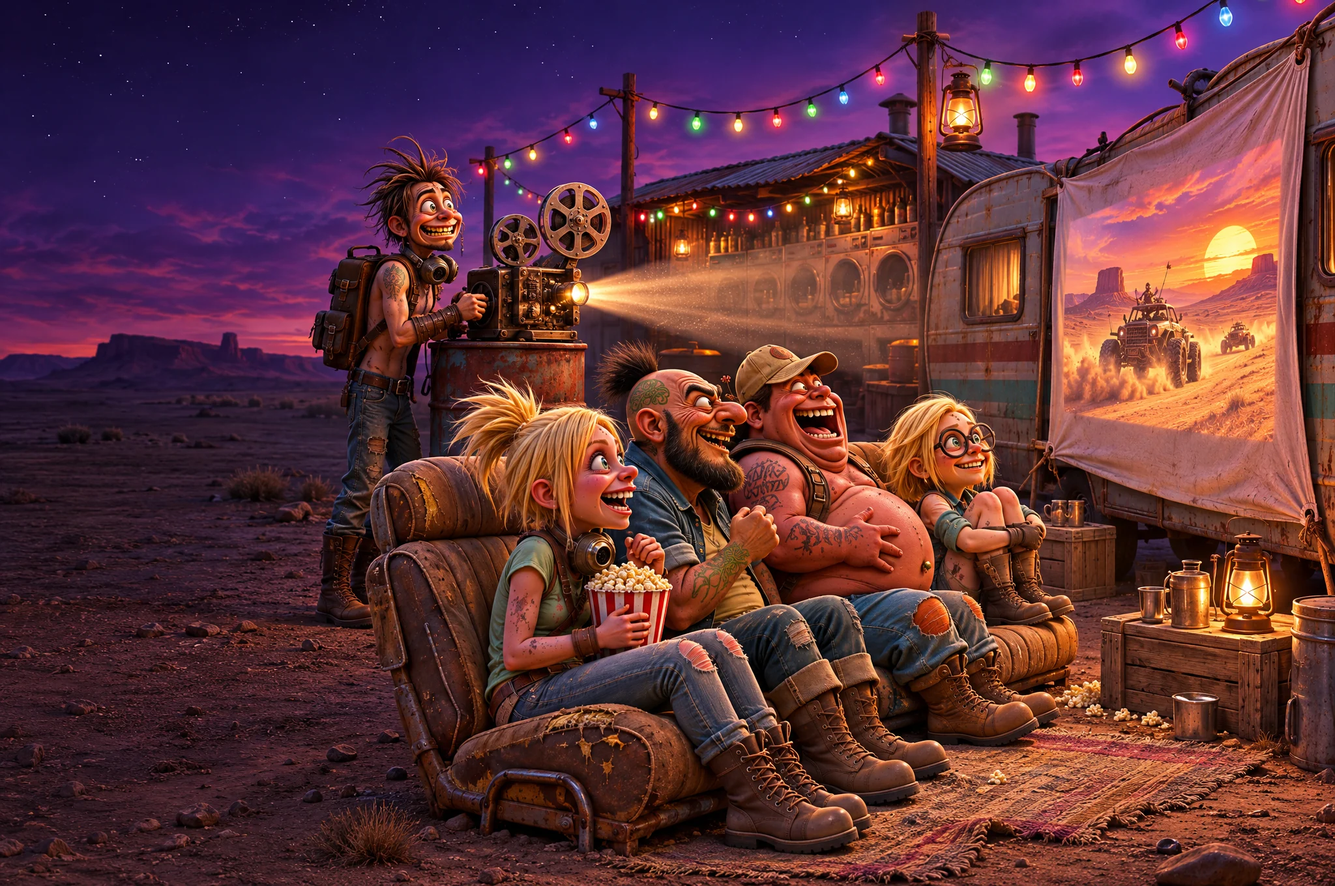
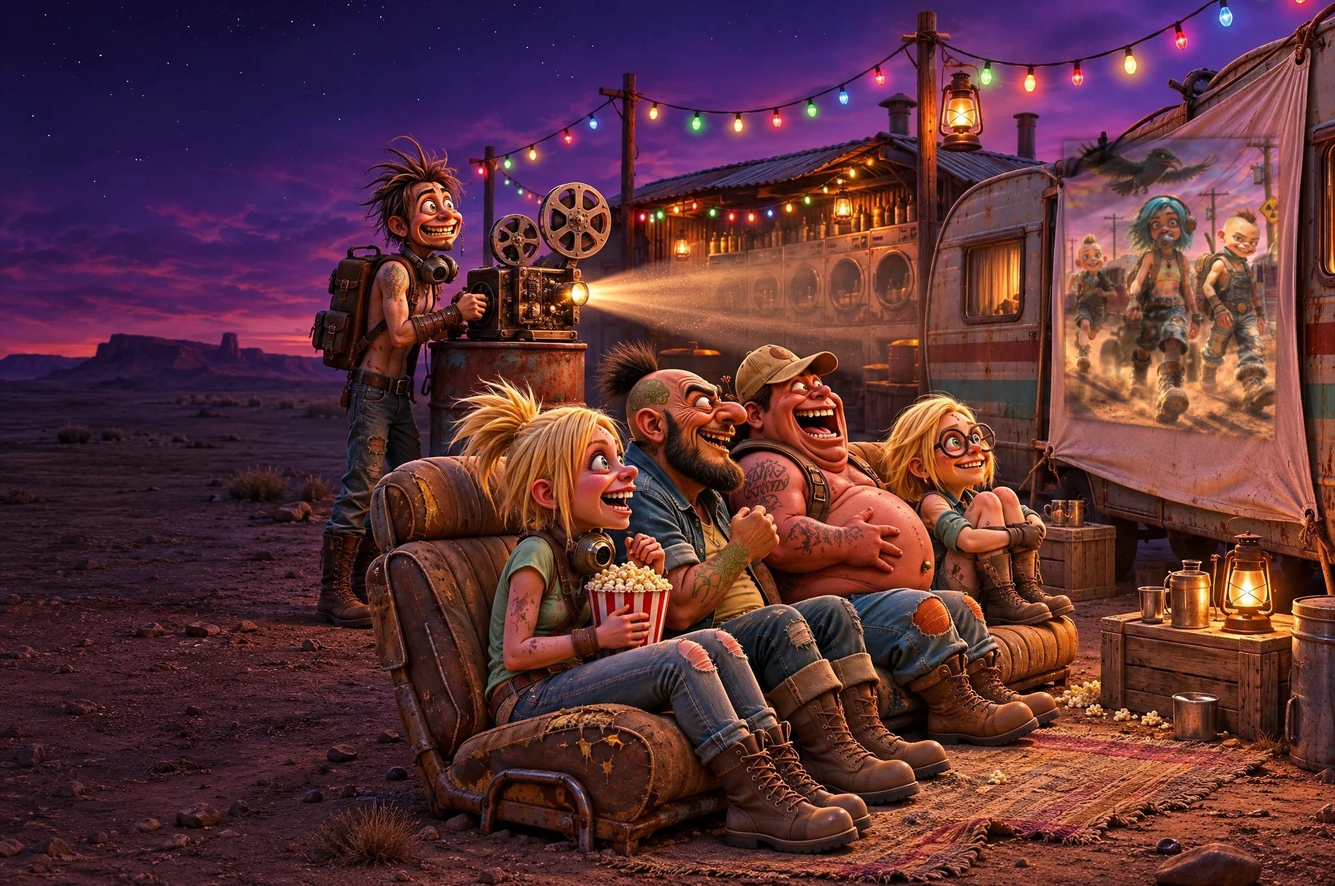
Media hero shows a Fuglys episode; Junkyard Racers title card with canon Axel (#43)
Claude-Session: https://claude.ai/code/session_01HhC7VcriBSbhQ7BsF3zVwa

Changed region(s): [[0.7812, 0.1544, 0.9688, 0.525]]

diff --git a/public/games/junkyard-racers/index.html b/public/games/junkyard-racers/index.html
@@ -8,7 +8,7 @@
 <link rel="canonical" href="https://thefuglys.com/games/junkyard-racers/">
 <meta property="og:title" content="Junkyard Racers | The Fuglys">
 <meta property="og:description" content="A free scrap-kart racing game from The Fuglys. Three tracks, eleven racers, drifting, items and Time Trial with your best-lap ghost.">
-<meta property="og:image" content="https://thefuglys.com/games/junkyard-racers/tex/title_card_v2.jpg">
+<meta property="og:image" content="https://thefuglys.com/games/junkyard-racers/tex/title_card_v3.jpg">
 <meta name="theme-color" content="#1d1a16">
 <link rel="stylesheet" href="fonts/fonts.css">
 <link rel="stylesheet" href="game.css">
